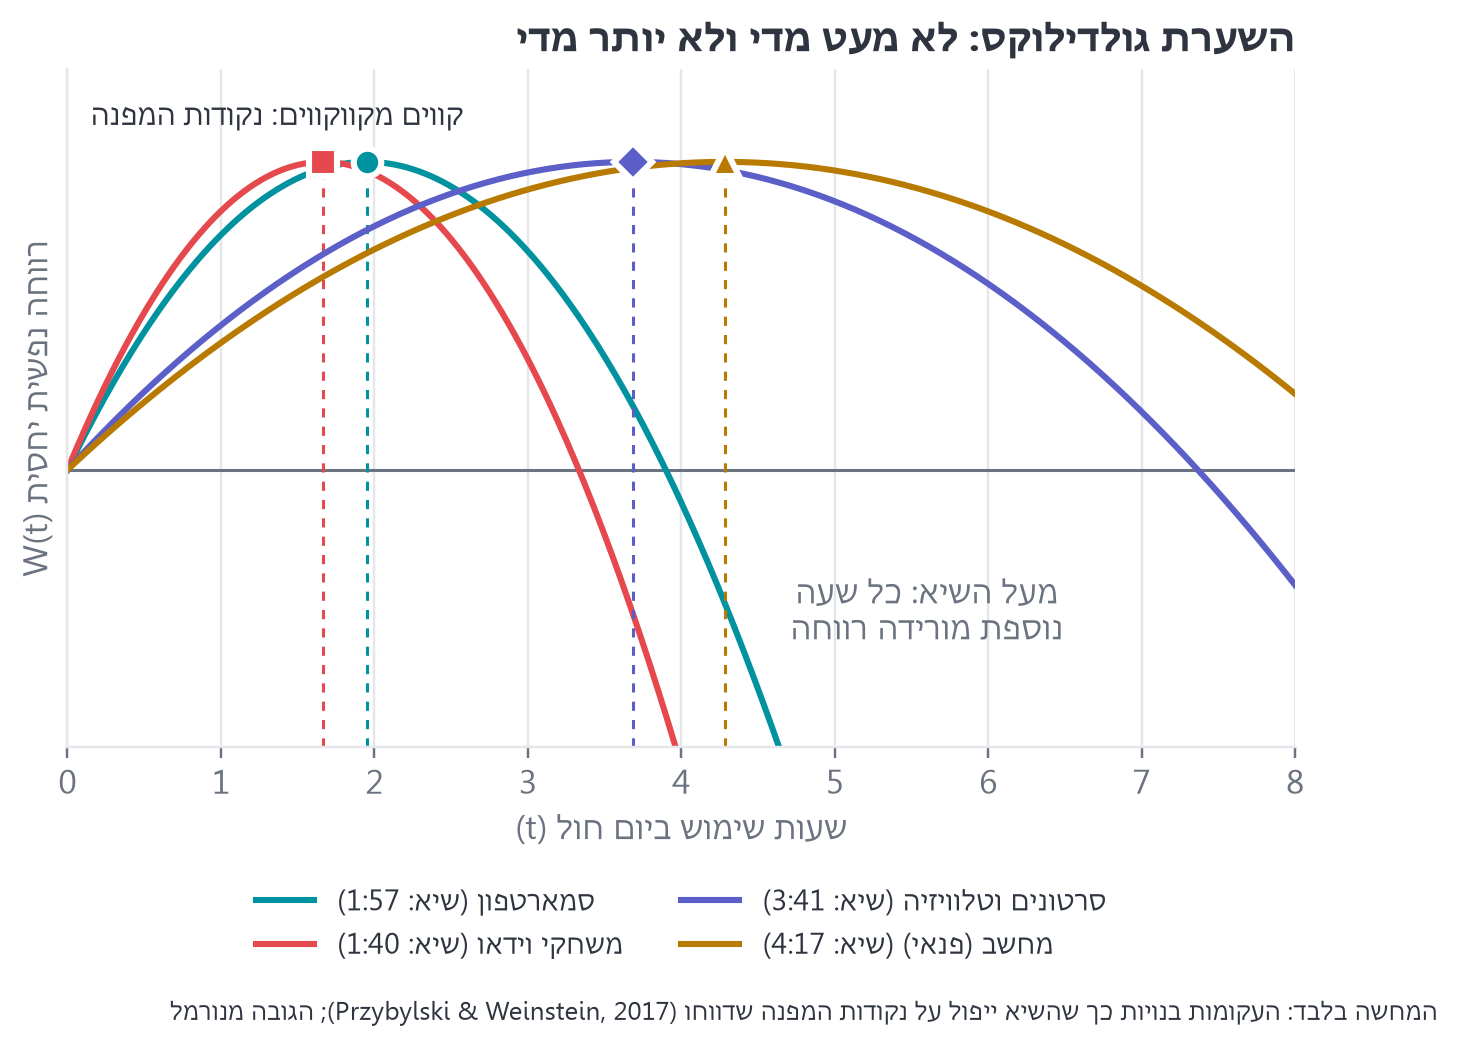
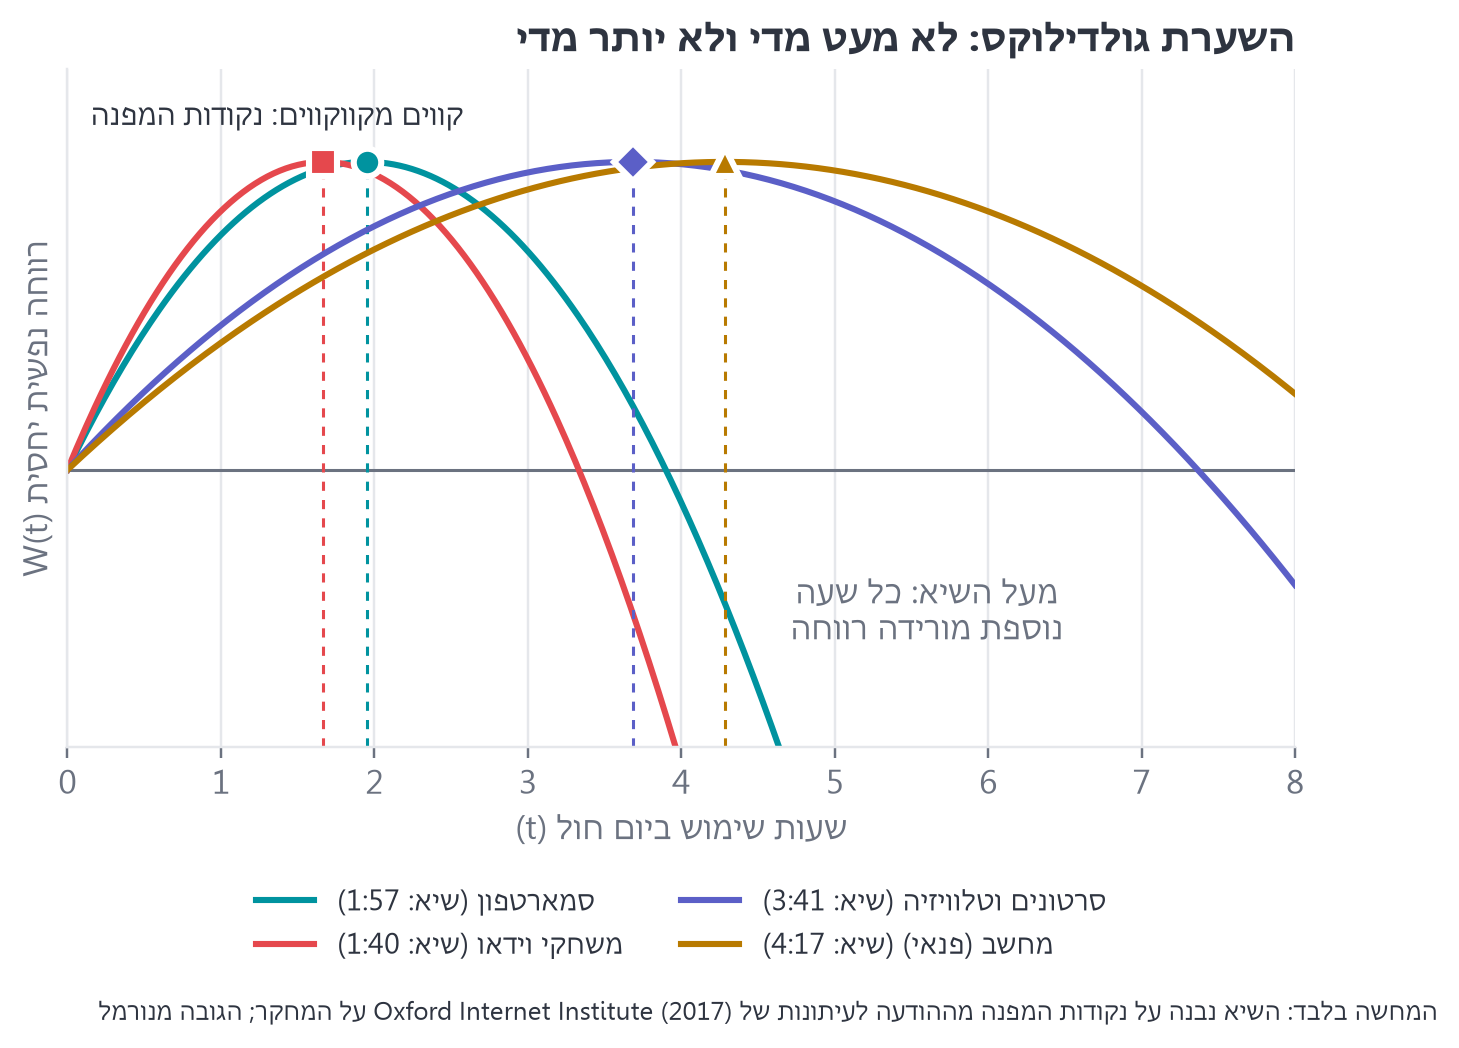
Content: figure 6.1 layout without label crossings (IMG-06), OII credit in figure 5.1 note and appendix code

Changed region(s): [[0.0617, 0.9466, 0.8636, 0.9771]]

diff --git a/python/make_images.py b/python/make_images.py
@@ -64,30 +64,37 @@ def smart_home():
     fig, ax = plt.subplots(figsize=(9, 5.6), dpi=200)
     fig.patch.set_facecolor("white")
     # הבית
-    ax.add_patch(Polygon([[-3.6, -2.75], [3.6, -2.75], [3.6, 1.0], [0, 3.0], [-3.6, 1.0]],
+    # round 6: walls and roof raised so the top-row labels sit inside the house
+    ax.add_patch(Polygon([[-3.6, -2.75], [3.6, -2.75], [3.6, 1.45], [0, 3.75], [-3.6, 1.45]],
                          closed=True, fc="#F5F7FA", ec=NIGHT, lw=3, zorder=1))
     # הענן
-    for cx, cy, rr in [(0, 4.35, 0.55), (-0.6, 4.15, 0.42), (0.62, 4.15, 0.45), (0.25, 4.65, 0.4)]:
+    for cx, cy, rr in [(0, 4.95, 0.55), (-0.6, 4.75, 0.42), (0.62, 4.75, 0.45), (0.25, 5.25, 0.4)]:
         ax.add_patch(Circle((cx, cy), rr, fc=SCREEN, ec="none", alpha=0.9, zorder=2))
-    ax.text(0, 4.25, "ענן", ha="center", va="center", color="white", fontsize=16,
+    ax.text(0, 4.85, "ענן", ha="center", va="center", color="white", fontsize=16,
             fontweight="bold", zorder=3)
     # רכזת
     ax.add_patch(Circle((0, 0), 0.55, fc=NIGHT, ec=SCREEN, lw=3, zorder=4))
     ax.text(0, 0, "רכזת", ha="center", va="center", color="white", fontsize=15, fontweight="bold", zorder=5)
-    ax.plot([0, 0], [0.55, 3.8], color=SCREEN, lw=2, ls="--", zorder=1)
+    ax.plot([0, 0], [0.55, 4.4], color=SCREEN, lw=2, ls="--", zorder=1)
     # מכשירים: (x, y, צבע, תווית, צורה)
     # Round 5: Hebrew labels (the figure was English-only inside a Hebrew book).
     # IMG-03: bottom row raised, one-line labels, so no label crosses the wall.
     devices = [(-2.1, 1.1, SUN, "תאורה\nחכמה"), (2.1, 1.1, NOTIF, "מצלמה"),
                (-2.2, -1.3, LEAF, "תרמוסטט"), (2.2, -1.3, SCREEN, "רמקול"),
                (-0.75, -1.45, NOTIF, "מנעול"), (0.8, -1.45, SUN, "מקרר"),
-               (-1.15, 1.85, LEAF, "שקע"), (1.15, 1.85, SCREEN, "טלוויזיה")]
+               (-1.0, 1.6, LEAF, "שקע"), (1.0, 1.6, SCREEN, "טלוויזיה")]
     for x, y, c, lab in devices:
-        ax.plot([0, x], [0, y], color=c, lw=1.6, alpha=0.7, zorder=3)
+        # IMG-06 (round 6): each link starts at the hub's edge (r = 0.55), not under its label
+        d = np.hypot(x, y)
+        ax.plot([0.55 * x / d, x], [0.55 * y / d, y], color=c, lw=1.6, alpha=0.7, zorder=3)
         for k in (1, 2, 3):  # "גלי" Wi-Fi
             ax.add_patch(Circle((x, y), 0.32 + 0.12 * k, fc="none", ec=c, lw=1, alpha=0.35 / k, zorder=3))
         ax.add_patch(Circle((x, y), 0.32, fc=c, ec="white", lw=2, zorder=6))
-        ax.text(x, y - 0.62, lab, ha="center", va="top", fontsize=12, color=NIGHT, zorder=7)
+        # top-row devices get their label ABOVE the node, so the link to the hub (which
+        # leaves the node downwards) cannot cross it (IMG-06: "טלוויזיה" sat on its own link)
+        above = y > 1.5
+        ax.text(x, y + 0.62 if above else y - 0.62, lab, ha="center", va="bottom" if above else "top",
+                fontsize=12, color=NIGHT, zorder=7)
     # בעלים עם סמארטפון
     ax.add_patch(FancyBboxPatch((4.2, -0.7), 0.6, 1.1, boxstyle="round,pad=0.03,rounding_size=0.1",
                                 fc=NIGHT, ec=SCREEN, lw=2, zorder=6))
@@ -96,7 +103,7 @@ def smart_home():
                 arrowprops=dict(arrowstyle="<->", color=NIGHT, lw=1.5, ls=":"))
     ax.text(4.5, -0.95, "אתם", ha="center", va="top", fontsize=14, fontweight="bold", color=NIGHT)
     ax.set_xlim(-4.0, 5.2)
-    ax.set_ylim(-3.1, 5.2)
+    ax.set_ylim(-3.1, 5.8)
     ax.set_aspect("equal")
     ax.axis("off")
     fig.savefig(OUT / "smart_home.png", bbox_inches="tight", pad_inches=0.1)
@@ -104,6 +111,8 @@ def smart_home():
 
 
 if __name__ == "__main__":
+    import overlap_check                    # IMG-06 (round 6): illustrations are checked too
+    overlap_check.install(OUT)
     cover_network()
     smart_home()
     print("images written to", OUT)

diff --git a/python/make_graphs.py b/python/make_graphs.py
@@ -99,13 +99,13 @@ LABELS = {
     "above": "מעל השיא: כל שעה\nנוספת מורידה רווחה",
     "xlabel": "שעות שימוש ביום חול (t)", "ylabel": "רווחה נפשית יחסית W(t)",
     "title": "השערת גולדילוקס: לא מעט מדי ולא יותר מדי",
-    "note": "המחשה בלבד: העקומות בנויות כך שהשיא ייפול על נקודות המפנה "
-            "שדווחו (Przybylski & Weinstein, 2017); הגובה מנורמל",
+    "note": "המחשה בלבד: השיא נבנה על נקודות המפנה מההודעה לעיתונות של "
+            "Oxford Internet Institute (2017) על המחקר; הגובה מנורמל",
 }
 
 
 def goldilocks():
-    # Weekday tipping points t* (hours): Przybylski & Weinstein 2017.
+    # Weekday tipping points t* (hours): OII press release (2017).
     # The curves ILLUSTRATE W(t) = b0 + b1*t - b2*t^2: built to peak
     # at t*, height normalized to 1 (they show WHERE, not how big).
     series = [("phone", 1 + 57 / 60, TEAL, "o"),
@@ -137,46 +137,10 @@ def goldilocks():
     plt.close(fig)
 
 
-def overlap_findings(fig):
-    """QA-04 / IMG-04: report a legend or text label that covers a plotted curve or point,
-    or two labels that overlap each other. Runs on every figure before it is saved."""
-    import itertools
-    fig.canvas.draw()
-    r = fig.canvas.get_renderer()
-    found = []
-    for ax in fig.axes:
-        # legend: 12px margin (RTL text can render wider than measured). Text labels: 2px,
-        # and an annotation's arrow is excluded (it is meant to touch the point it labels).
-        from matplotlib.text import Text
-        boxes = [("legend", ax.get_legend().get_window_extent(r).padded(12))] if ax.get_legend() else []
-        boxes += [(f"text '{t.get_text()[:25]}'", Text.get_window_extent(t, r).padded(2))
-                  for t in ax.texts if t.get_text()]
-        pts = np.vstack([ln.get_transform().transform(ln.get_xydata()) for ln in ax.lines
-                         if len(ln.get_xydata())] or [np.empty((0, 2))])
-        ab = ax.get_window_extent(r)          # only points that are drawn (not clipped away)
-        pts = pts[(pts[:, 0] >= ab.x0) & (pts[:, 0] <= ab.x1) & (pts[:, 1] >= ab.y0) & (pts[:, 1] <= ab.y1)]
-        for name, bb in boxes:
-            inside = ((pts[:, 0] > bb.x0) & (pts[:, 0] < bb.x1) & (pts[:, 1] > bb.y0) & (pts[:, 1] < bb.y1)).sum()
-            if inside:
-                found.append(f"{name} covers {inside} curve points")
-        for (n1, b1), (n2, b2) in itertools.combinations(boxes, 2):
-            if b1.overlaps(b2):
-                found.append(f"{n1} overlaps {n2}")
-    return found
-
-
 if __name__ == "__main__":
-    import json
-    from matplotlib.figure import Figure
-    report = {}
-    _save = Figure.savefig
-
-    def checked_save(self, fname, *a, **k):  # every graph is checked before it is written
-        report[Path(fname).name] = overlap_findings(self)
-        return _save(self, fname, *a, **k)
-    Figure.savefig = checked_save
+    import overlap_check                    # shared with make_images.py (QA-04, IMG-06)
+    overlap_check.install(OUT)              # every graph is checked before it is written
     internet_users()
     daily_time()
     goldilocks()
-    (OUT / "overlap-report.json").write_text(json.dumps(report, ensure_ascii=False, indent=1), encoding="utf-8")
-    print("graphs written to", OUT, "| overlaps:", {k: len(v) for k, v in report.items()})
+    print("graphs written to", OUT)
